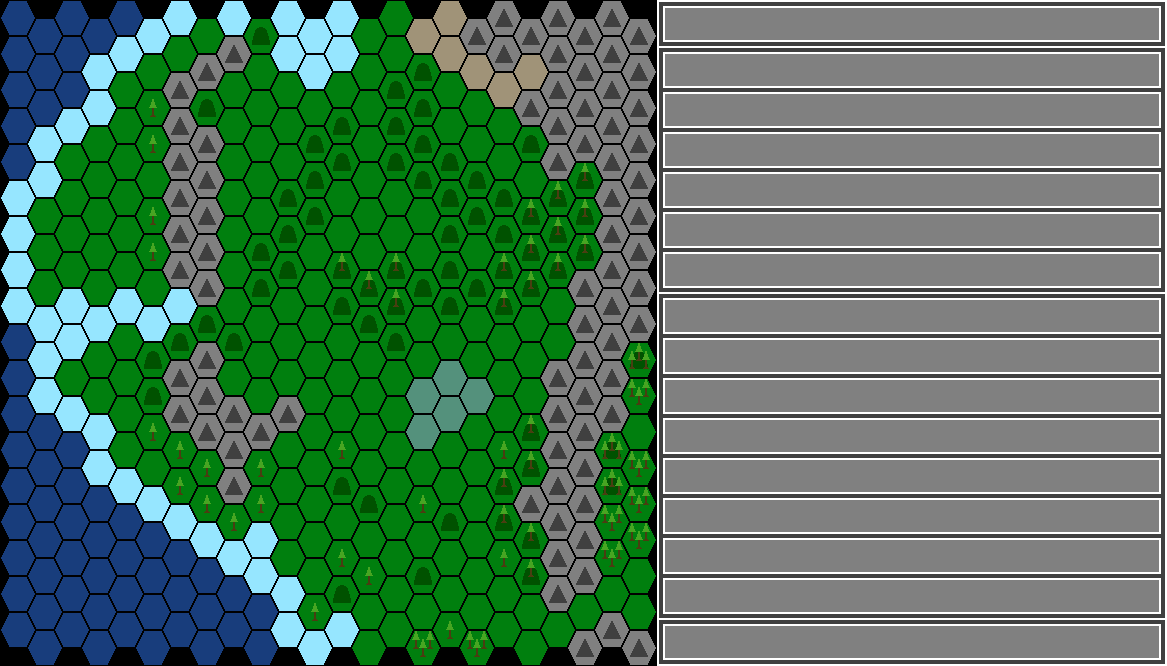
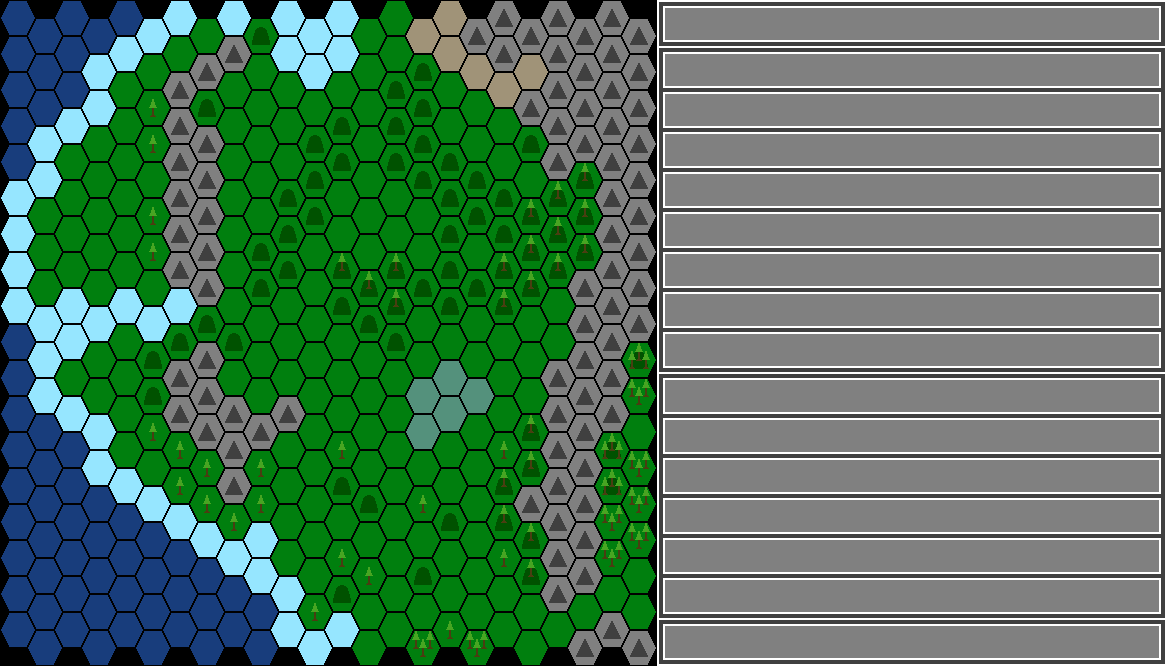
Needs Upgrade Button

Changed region(s): [[0.5553, 0.5405, 1.0, 0.5706], [0.5553, 0.4805, 1.0, 0.5105], [0.5553, 0.4204, 1.0, 0.4505]]

diff --git a/Game1.cs b/Game1.cs
@@ -15,13 +15,14 @@ namespace A_Level_Computing_Project
         public Country[] Countries = new Country[11];
         public int SelectedX, SelectedY = 0;
         public SpriteFont MenuFont;
-        public Texture2D Background, Fort, Settlement, Farm, Forester, Mine;
+        public Texture2D Background, Fort, Settlement, Farm, Forester, Mine, BuildStructureMenu;
         public int Player = 8;
         public int Turn = 1;
         public MouseState CurrentMouseState, LastMouseState;
         public Dictionary<string, int> FarmProduction = new Dictionary<string, int>();
         public Dictionary<string, int> ForesterProduction = new Dictionary<string, int>();
         public Dictionary<string, int> MineProduction = new Dictionary<string, int>();
+        public string Menu = "Game";
 
         public Game1()
         {
@@ -53,6 +54,7 @@ namespace A_Level_Computing_Project
             Farm = Content.Load<Texture2D>("Farm");
             Forester = Content.Load<Texture2D>("Forester");
             Mine = Content.Load<Texture2D>("Mine");
+            BuildStructureMenu = Content.Load<Texture2D>("Structure Menu");
             MenuFont = Content.Load<SpriteFont>("MenuFont");
 
             Countries[0] = new Country(true, "Unowned", 0, 0);
@@ -131,46 +133,124 @@ namespace A_Level_Computing_Project
 
             if (CurrentMouseState.LeftButton != ButtonState.Pressed && LastMouseState.LeftButton == ButtonState.Pressed)
             {
-                foreach (Province Hex in MapArray)
+                if (Menu == "Game")
                 {
-                    if (Hex.ContainsMousePointer(mousePoint))
+                    foreach (Province Hex in MapArray)
                     {
-                        SelectedX = Hex.X;
-                        SelectedY = Hex.Y;
+                        if (Hex.ContainsMousePointer(mousePoint))
+                        {
+                            SelectedX = Hex.X;
+                            SelectedY = Hex.Y;
+                        }
+                    }
+
+                    Rectangle NextTurnButton = new Rectangle(663, 624, 498, 36);
+                    if (NextTurnButton.Contains(mousePoint))
+                    {
+                        Turn++;
+                        foreach (Country C in Countries)
+                        {
+                            C.Gold += 50;
+                            C.Metal += 50;
+                            C.Stone += 50;
+                            C.Wood += 50;
+                            C.Food += 50;
+                        }
+                        foreach (Province P in MapArray)
+                        {
+                            if (P.Structure == "Settlement")
+                            {
+                                P.OwnedBy.Gold += 100 * P.StructureLevel;
+                            }
+                            if (P.Structure == "Mine")
+                            {
+                                P.OwnedBy.Stone += MineProduction[P.Terrain] * P.StructureLevel;
+                                P.OwnedBy.Metal += MineProduction[P.Terrain] * P.StructureLevel;
+                            }
+                            if (P.Structure == "Farm")
+                            {
+                                P.OwnedBy.Food += FarmProduction[P.Terrain] * P.StructureLevel;
+                            }
+                            if (P.Structure == "Forester")
+                            {
+                                P.OwnedBy.Wood += ForesterProduction[P.Terrain] * P.StructureLevel;
+                            }
+                        }
+                    }
+
+                    Rectangle BuildStructureButton = new Rectangle(663, 498, 498, 36);
+                    if (BuildStructureButton.Contains(mousePoint) && MapArray[SelectedX, SelectedY].OwnedBy == Countries[Player] && MapArray[SelectedX, SelectedY].Structure == "Empty")
+                    {
+                        Menu = "Build Structure";
                     }
                 }
 
-                Rectangle NextTurnButton = new Rectangle(663, 624, 498, 36);
-                if (NextTurnButton.Contains(mousePoint))
+                if (Menu == "Build Structure")
                 {
-                    Turn++;
-                    foreach (Country C in Countries)
+                    Rectangle BuildSettlement = new Rectangle(221, 312, 40, 40);
+                    Rectangle BuildFort = new Rectangle(265, 312, 40, 40);
+                    Rectangle BuildFarm = new Rectangle(309, 312, 40, 40);
+                    Rectangle BuildMine = new Rectangle(353, 312, 40, 40);
+                    Rectangle BuildForester = new Rectangle(397, 312, 40, 40);
+                    Rectangle CloseBuildMenu = new Rectangle(447, 312, 14, 14);
+                    if (BuildSettlement.Contains(mousePoint) && Countries[Player].Gold > 100 && Countries[Player].Food > 100 && Countries[Player].Wood > 100 && Countries[Player].Stone > 100 && Countries[Player].Metal > 100)
                     {
-                        C.Gold += 50;
-                        C.Metal += 50;
-                        C.Stone += 50;
-                        C.Wood += 50;
-                        C.Food += 50;
+                        MapArray[SelectedX, SelectedY].Structure = "Settlement";
+                        MapArray[SelectedX, SelectedY].StructureLevel = 1;
+                        Countries[Player].Gold -= 100;
+                        Countries[Player].Food -= 100;
+                        Countries[Player].Wood -= 100;
+                        Countries[Player].Stone -= 100;
+                        Countries[Player].Metal -= 100;
+                        Menu = "Game";
                     }
-                    foreach (Province P in MapArray)
+                    else if (BuildFort.Contains(mousePoint) && Countries[Player].Gold > 100 && Countries[Player].Food > 100 && Countries[Player].Wood > 100 && Countries[Player].Stone > 100 && Countries[Player].Metal > 100)
                     {
-                        if (P.Structure == "Settlement")
-                        {
-                            P.OwnedBy.Gold += 100 * P.StructureLevel;
-                        }
-                        if (P.Structure == "Mine")
-                        {
-                            P.OwnedBy.Stone += MineProduction[P.Terrain] * P.StructureLevel;
-                            P.OwnedBy.Metal += MineProduction[P.Terrain] * P.StructureLevel;
-                        }
-                        if (P.Structure == "Farm")
-                        {
-                            P.OwnedBy.Food += FarmProduction[P.Terrain] * P.StructureLevel;
-                        }
-                        if (P.Structure == "Forester")
-                        {
-                            P.OwnedBy.Wood += ForesterProduction[P.Terrain] * P.StructureLevel;
-                        }
+                        MapArray[SelectedX, SelectedY].Structure = "Fort";
+                        MapArray[SelectedX, SelectedY].StructureLevel = 1;
+                        Countries[Player].Gold -= 100;
+                        Countries[Player].Food -= 100;
+                        Countries[Player].Wood -= 100;
+                        Countries[Player].Stone -= 100;
+                        Countries[Player].Metal -= 100;
+                        Menu = "Game";
+                    }
+                    else if (BuildFarm.Contains(mousePoint) && Countries[Player].Gold > 100 && Countries[Player].Food > 100 && Countries[Player].Wood > 100 && Countries[Player].Stone > 100 && Countries[Player].Metal > 100)
+                    {
+                        MapArray[SelectedX, SelectedY].Structure = "Farm";
+                        MapArray[SelectedX, SelectedY].StructureLevel = 1;
+                        Countries[Player].Gold -= 100;
+                        Countries[Player].Food -= 100;
+                        Countries[Player].Wood -= 100;
+                        Countries[Player].Stone -= 100;
+                        Countries[Player].Metal -= 100;
+                        Menu = "Game";
+                    }
+                    else if (BuildMine.Contains(mousePoint) && Countries[Player].Gold > 100 && Countries[Player].Food > 100 && Countries[Player].Wood > 100 && Countries[Player].Stone > 100 && Countries[Player].Metal > 100)
+                    {
+                        MapArray[SelectedX, SelectedY].Structure = "Mine";
+                        MapArray[SelectedX, SelectedY].StructureLevel = 1;
+                        Countries[Player].Gold -= 100;
+                        Countries[Player].Food -= 100;
+                        Countries[Player].Wood -= 100;
+                        Countries[Player].Stone -= 100;
+                        Countries[Player].Metal -= 100;
+                        Menu = "Game";
+                    }
+                    else if (BuildForester.Contains(mousePoint) && Countries[Player].Gold > 100 && Countries[Player].Food > 100 && Countries[Player].Wood > 100 && Countries[Player].Stone > 100 && Countries[Player].Metal > 100)
+                    {
+                        MapArray[SelectedX, SelectedY].Structure = "Forester";
+                        MapArray[SelectedX, SelectedY].StructureLevel = 1;
+                        Countries[Player].Gold -= 100;
+                        Countries[Player].Food -= 100;
+                        Countries[Player].Wood -= 100;
+                        Countries[Player].Stone -= 100;
+                        Countries[Player].Metal -= 100;
+                        Menu = "Game";
+                    }
+                    else if (CloseBuildMenu.Contains(mousePoint))
+                    {
+                        Menu = "Game";
                     }
                 }
             }
@@ -295,6 +375,11 @@ namespace A_Level_Computing_Project
                         _spriteBatch.Draw(Mine, new Vector2(Hex.X * 27, (Hex.Y * 36) + 18), Color.White);
                     }
                 }
+            }
+
+            if (Menu == "Build Structure")
+            {
+                _spriteBatch.Draw(BuildStructureMenu, new Vector2(215, 306), Color.White);
             }
 
             _spriteBatch.End();

diff --git a/Country.cs b/Country.cs
@@ -9,7 +9,9 @@ namespace A_Level_Computing_Project
         public int Gold, Wood, Stone, Food, Metal;
         public bool IsAI;
         public string Name;
-        public Army Standing, Levy;
+        public StandingArmy Standing;
+        public LevyArmy Levy;
+
 
         public Country (bool AI, string n, int ax, int ay)
         {
@@ -20,7 +22,7 @@ namespace A_Level_Computing_Project
             Stone = 500;
             Food = 500;
             Metal = 500;
-            Standing = new Army(ax, ay);
+            Standing = new StandingArmy(ax, ay);
         }
     }
 }

diff --git a/Army.cs b/Army.cs
@@ -7,11 +7,25 @@ namespace A_Level_Computing_Project
     public class Army
     {
         public int X, Y, Infantry;
+    }
 
-        public Army(int x, int y)
+    public class StandingArmy : Army
+    {
+        public int Cavalry, Archers;
+        public StandingArmy(int x, int y)
         {
             X = x;
             Y = y;
+        }
+    }
+
+    public class LevyArmy : Army
+    {
+        public LevyArmy(int x, int y, int i)
+        {
+            X = x;
+            Y = y;
+            Infantry = i;
         }
     }
 }
